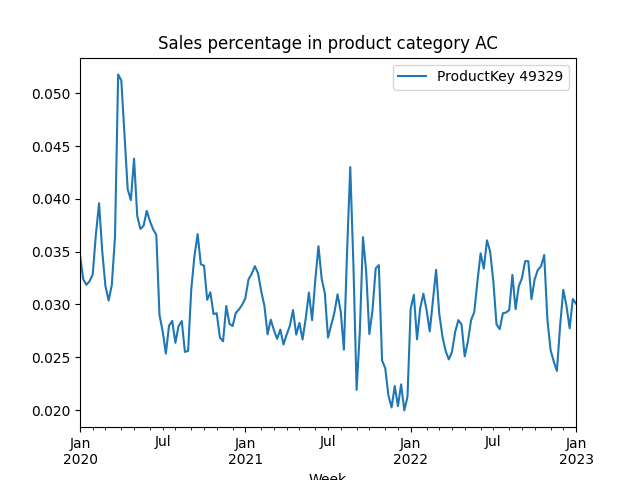
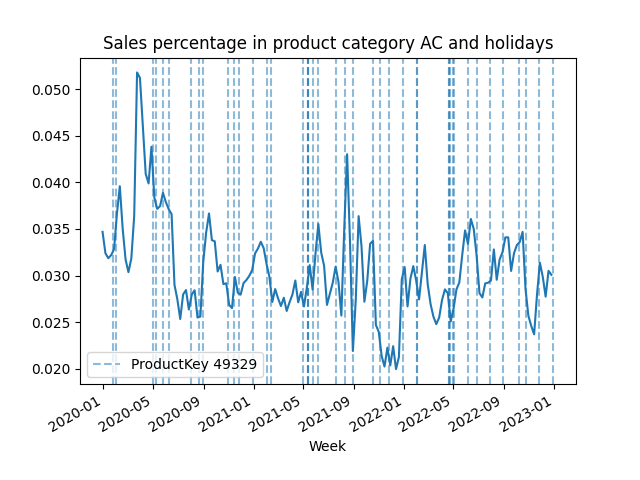
.

diff --git a/deep_dive.py b/deep_dive.py
@@ -27,9 +27,15 @@ def deep_dive(product_key, transactions):
     plt.legend([f'ProductKey {product_key}', f'Avg ProductCategory {product_category_lvl2}'])
     plt.savefig(f'deep_dive_{product_key}/sales_vs_category_{product_key}.png')
 
+    fig, ax = plt.subplots()
+    holidays = dd.read_csv('holidays/all_holidays.csv')
+    holidays['Date'] = dd.to_datetime(holidays['Date'], dayfirst=True)
+    holidays = holidays['Date'].values.compute()
+    for date in holidays:
+        ax.axvline(x=date, linestyle='dashed', alpha=0.5)
     (weekly_sales / al.sum_values_groupby_c(other_products, 'Week', 'ActualSales'))\
         .reset_index().plot(x='Week', y='ActualSales',
-                            title=f'Sales percentage in product category {product_category_lvl2}')
+                            title=f'Sales percentage in product category {product_category_lvl2} and holidays', ax=ax)
     plt.legend([f'ProductKey {product_key}'])
     plt.savefig(f'deep_dive_{product_key}/sales_percentage_{product_key}.png')
 
@@ -45,18 +51,9 @@ def deep_dive(product_key, transactions):
         .reset_index().plot(x='Week', y='UnitVolume',
                             title=f'UnitVolume percentage in product category {product_category_lvl2}')
     plt.legend([f'ProductKey {product_key}'])
+
     plt.savefig(f'deep_dive_{product_key}/volume_percentage_{product_key}.png')
 
-    fig, ax = plt.subplots()
-    al.sum_values_groupby(product_transactions, 'TransactionDate', 'ActualSales').reset_index()\
-        .plot(x='TransactionDate', y='ActualSales', title='Daily sales and holidays', ax=ax, figsize=(12, 4))
-
-    holidays = dd.read_csv('holidays/all_holidays.csv')
-    holidays['Date'] = dd.to_datetime(holidays['Date'], dayfirst=True)
-    holidays = holidays['Date'].values.compute()
-    for date in holidays:
-        ax.axvline(x=date, linestyle='dashed', alpha=0.5)
-    plt.savefig(f'deep_dive_{product_key}/sales_holidays.png')
 
 
 transactions = al.read_files()

diff --git a/product_performance.py b/product_performance.py
@@ -113,4 +113,3 @@ del monthly_increase
 plt.savefig('plots/sales_increase_cpi.png')
 
 print(al.mean_values_groupby(al.sum_values_groupby_c(all_transactions, ['TransactionDate', 'IsHoliday'], 'ActualSales').reset_index(), 'IsHoliday', 'ActualSales'))
-
